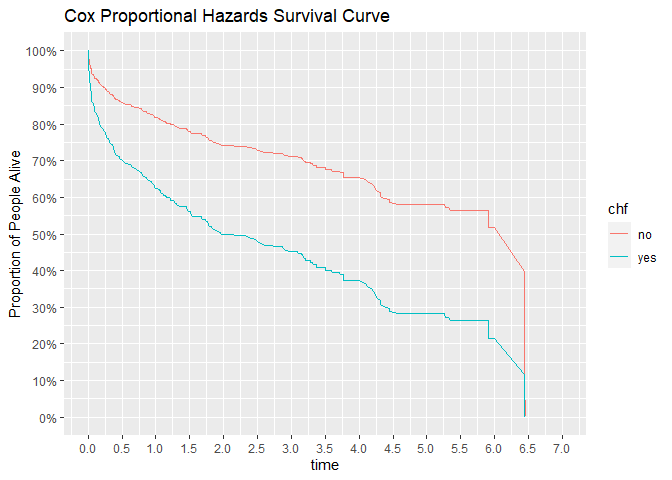
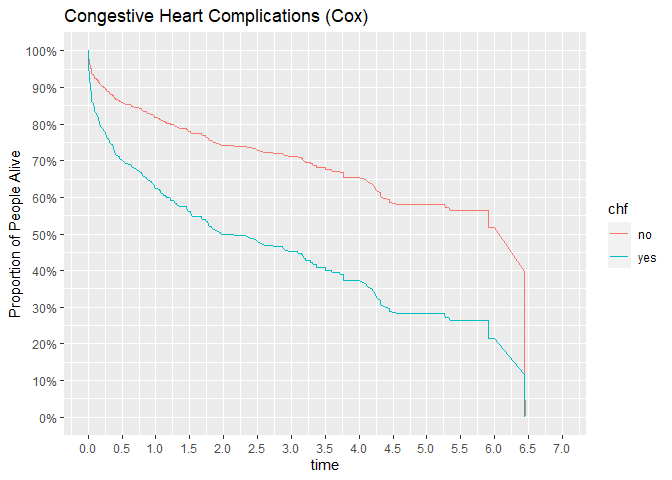
fix graphs

Changed region(s): [[0.125, 0.0, 0.5938, 0.0625]]

diff --git a/README.md b/README.md
@@ -119,23 +119,22 @@ is addressed by the next model.
 The Cox Proportional Hazards model is an inference tool that controls
 other variables that possibly influence survival time. It does this by
 assuming a semi-parametric relationship between the hazard function and
-explanatory variables. With this model, a survival curve can be
-calculated.
+explanatory variables. With these data, a survival curve is
 
 ![](README_files/figure-commonmark/unnamed-chunk-7-1.png)
 
 According to this model, an estimated 70% of patients live at least 3.25
 years after being admitted.
 
-Survival is worse for patients with complications.
+Under the Cox model, survival is worse for patients with complications.
 
 ![](README_files/figure-commonmark/unnamed-chunk-8-1.png)
 
 Note the two survival curves have the exact same curvature. This is due
 to the proportional hazard assumption of the Cox model.
 
-Controlling for other variables, complications are associated with worse
-survival.
+Controlling for other variables, the conclusion is the same.
+Complications are associated with worse survival.
 
             coef    exp(coef)     se(coef)            z     Pr(>|z|) 
     8.465501e-01 2.331589e+00 1.449158e-01 5.841670e+00 5.168004e-09 
